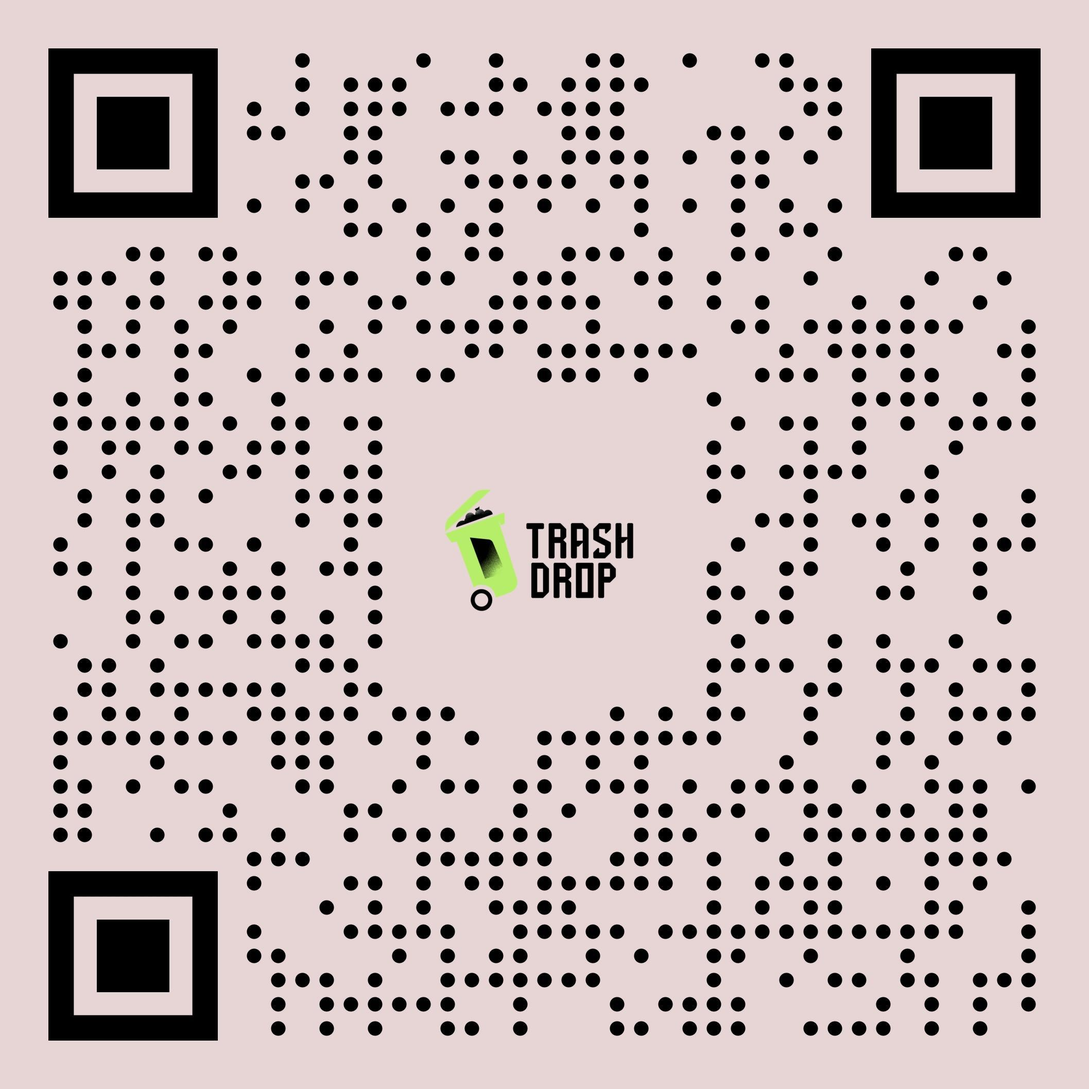
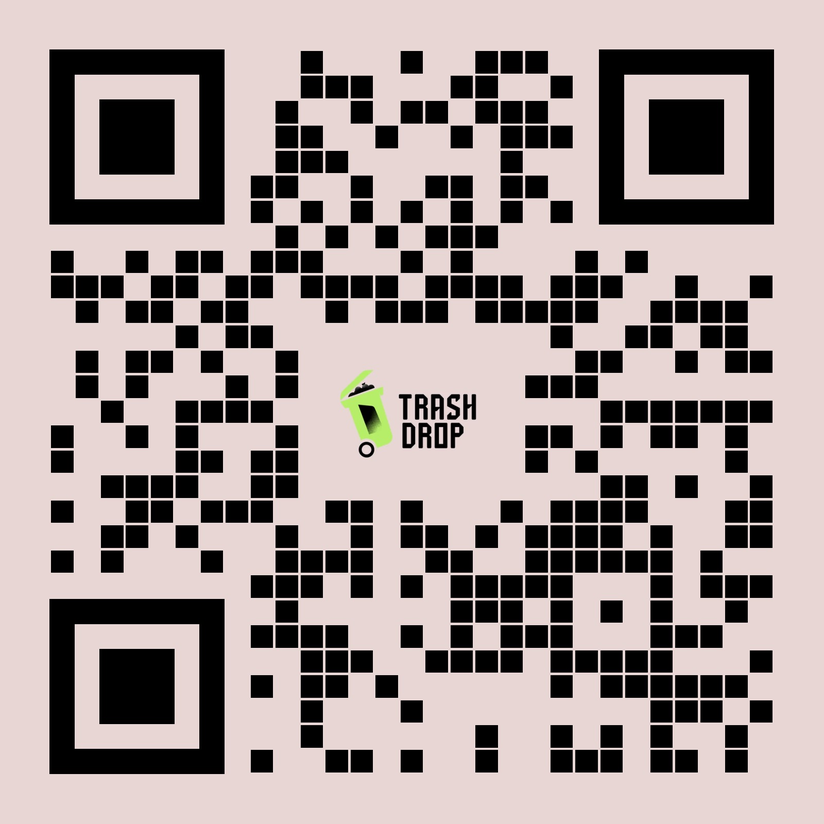
Point the website at the new app subdomains
The household app now lives at app.trashdrops.com and the collector
(Carter) app at collector.trashdrops.com (the old addresses keep
working).

- HOUSEHOLD_APP_URL defaults to https://app.trashdrops.com/.
- The app QR codes on the site are regenerated in the same style for the
  new addresses and checked by decoding them: book-in-app-qr.png (booking
  card and banner), how-it-works/household-app-qr.png, app-download-qr.jpeg
  and "TrashDrop Carter App QR code.jpeg". They used to encode
  trashdrop-mobile.windsurf.build and
  trashdrop-mobile-collector.netlify.app. The bag QR codes
  (trashdrops.com/scan?batch=...) are untouched.
- Page text, FAQ answers and structured data that sent visitors to "the
  app at trashdrops.com" now name app.trashdrops.com (households) or
  collector.trashdrops.com (carters).

Claude-Session: https://claude.ai/code/session_01DucgrqNsCZE3wxfdsCRqT7

diff --git a/src/pages/blog/BlogPostPage.js b/src/pages/blog/BlogPostPage.js
@@ -105,7 +105,7 @@ const POST_CONTENT = {
     sections: [
       { h2:'The scale of illegal dumping in Ghana', body:'Ghana generates over 12 million tonnes of solid waste annually. Estimates from the Ghana Statistical Service suggest that less than 60% of urban waste is formally collected, with the remainder ending up in unauthorised dump sites — on roadsides, in drainage channels, on community land, and in waterways.' },
       { h2:"What Ghana law says", body:"Under the Environmental Sanitation Policy and Act 490, the disposal of solid waste anywhere other than a designated, licensed facility is an offence. Penalties include fines and, for persistent or large-scale offenders, prosecution. Municipal and Metropolitan District Assemblies have Environmental Health Officers empowered to enforce these laws." },
-      { h2:'How to report with TrashDrop (step by step)', body:'1. Open trashdrops.com on your phone browser. 2. Tap "Report Illegal Dumping" from the home screen. 3. Photograph the dump site — minimum one clear photo, multiple photos increase priority. 4. Allow the app to capture your GPS coordinates. 5. Optionally describe the waste type and estimated volume. 6. Tap Submit. Your report is logged with timestamp, coordinates, and photos.' },
+      { h2:'How to report with TrashDrop (step by step)', body:'1. Open app.trashdrops.com on your phone browser. 2. Tap "Report Illegal Dumping" from the home screen. 3. Photograph the dump site — minimum one clear photo, multiple photos increase priority. 4. Allow the app to capture your GPS coordinates. 5. Optionally describe the waste type and estimated volume. 6. Tap Submit. Your report is logged with timestamp, coordinates, and photos.' },
       { h2:'What happens after you report', body:'TrashDrop routes the report to the relevant Municipal District Assembly and environmental enforcement unit. You receive a reference number for tracking. Licensed cleanup teams are allocated within 24 hours for verified high-priority reports. You can track cleanup status directly in the app.' },
       { h2:'Earning points for your report', body:'Points are credited immediately upon submission of a valid report. The point value depends on the severity classification of the dump site. Points can be redeemed at checkout for discounts on your next pickup request, or donated to a community environmental fund of your choice.' },
       { h2:'Illegal dumping hotspots in Accra', body:"Based on reports submitted through TrashDrop, the highest concentration of illegal dump sites in Accra is found along drainage corridors in Madina, Dome, and Taifa; informal markets in Ashaiman; and construction zones in Tema. These areas have active cleanup contracts with the Ga East Municipal Assembly and AMA." },
@@ -142,15 +142,15 @@ const POST_CONTENT = {
     keyword:  'QR trash bag Ghana',
     description: 'Complete walkthrough of the TrashDrop QR Bag System — where to buy bags in Ghana, how to activate with QR scan, request free pickup, and track collection in real time.',
     faq: [
-      { q:'Where can I buy TrashDrop bags?', a:'Official TrashDrop bags are available from authorised vendors across Accra, Kumasi, Takoradi and Tamale. Use the vendor locator in the TrashDrop app at trashdrops.com to find the nearest outlet.' },
-      { q:'How do I activate the bags with the QR code?', a:'Open the TrashDrop app at trashdrops.com, tap the QR scanner icon, and scan the QR code on your bag bundle. This registers the bags to your account and adds them to your inventory.' },
+      { q:'Where can I buy TrashDrop bags?', a:'Official TrashDrop bags are available from authorised vendors across Accra, Kumasi, Takoradi and Tamale. Use the vendor locator in the TrashDrop app at app.trashdrops.com to find the nearest outlet.' },
+      { q:'How do I activate the bags with the QR code?', a:'Open the TrashDrop app at app.trashdrops.com, tap the QR scanner icon, and scan the QR code on your bag bundle. This registers the bags to your account and adds them to your inventory.' },
       { q:'Is pickup really free with the QR bag system?', a:'Yes. Once bags are registered to your account, requesting a pickup is completely free. You only pay when purchasing the bags themselves from authorised vendors.' },
       { q:'What if my QR code does not scan?', a:'Ensure the code is undamaged and well-lit. Clean the code with a dry cloth. If it still does not scan, tap "Manual Entry" in the app and enter the printed code number, or contact TrashDrop support at trashdrops.com.' },
       { q:'How does the collector verify my bags on arrival?', a:'The collector scans the same QR code printed on your bag bundle when they arrive. This confirms the bags are registered to a legitimate account, logs the GPS location of the collection, and initiates the payment process.' },
     ],
     sections: [
       { h2:'Where to buy TrashDrop bags', body:'Official TrashDrop QR bags are sold by authorised vendors — small shops, market traders, and convenience stores — across Accra, Kumasi, Takoradi and Tamale. Use the vendor locator feature in the TrashDrop app to find the nearest outlet. Bags are sold in bundles of 5 and 10.' },
-      { h2:'How to activate with QR scan', body:'Each bag bundle comes with a unique QR code printed on the packaging. Open the TrashDrop app at trashdrops.com, tap "Activate Bags," point your camera at the QR code, and tap the confirmation button. The bags are instantly added to your account inventory. You can activate multiple bundles at any time.' },
+      { h2:'How to activate with QR scan', body:'Each bag bundle comes with a unique QR code printed on the packaging. Open the TrashDrop app at app.trashdrops.com, tap "Activate Bags," point your camera at the QR code, and tap the confirmation button. The bags are instantly added to your account inventory. You can activate multiple bundles at any time.' },
       { h2:'Requesting a free pickup', body:'When your bags are full, open the app, tap "Request Pickup," select the number of bags ready for collection, confirm your location (GPS or manual address), and submit. TrashDrop matches you with the nearest available verified collector automatically. You receive an acceptance notification within 2 hours on average.' },
       { h2:'Real-time tracking', body:"From the moment a collector accepts your request, you can see their live GPS position on the map in the TrashDrop app. You'll receive push notifications when the collector is en route, 5 minutes away, and on arrival." },
       { h2:'What happens to your waste', body:"The collector scans your QR code on arrival to confirm the pickup, loads your bags, and transports them to an authorised disposal facility holding a valid Ghana EPA permit. Recyclable materials are separated at the facility and sent to licensed recycling companies. You receive a completion notification with a summary of the disposal outcome." },
@@ -233,15 +233,15 @@ const POST_CONTENT = {
     faq: [
       { q:'Is TrashDrop available in Kumasi?', a:'Yes. TrashDrop is now live in Kumasi. Residents and businesses can book waste collectors, report illegal dumping sites, and join the carter network at trashdrops.com — no app download required.' },
       { q:'Which areas of Kumasi does TrashDrop serve?', a:'TrashDrop is initially serving Kumasi Central, Asokwa, Nhyiaeso, Bantama, Suame, Kwadaso, Oforikrom, and surrounding communities. Coverage is expanding as more collectors join the platform in the Ashanti Region.' },
-      { q:'Where can I buy TrashDrop bags in Kumasi?', a:'Authorised vendors in Kumasi are listed in the TrashDrop app. Use the vendor locator at trashdrops.com to find the nearest outlet to your location.' },
-      { q:'How can I earn as a waste collector in Kumasi?', a:'Kumasi-based collectors earn the same average rate as Accra collectors — ₵32.43 per pickup — paid directly to your MoMo wallet. Sign up at trashdrops.com, submit your Ghana ID and vehicle details, and get approved within 24 hours.' },
+      { q:'Where can I buy TrashDrop bags in Kumasi?', a:'Authorised vendors in Kumasi are listed in the TrashDrop app. Use the vendor locator at app.trashdrops.com to find the nearest outlet to your location.' },
+      { q:'How can I earn as a waste collector in Kumasi?', a:'Kumasi-based collectors earn the same average rate as Accra collectors — ₵32.43 per pickup — paid directly to your MoMo wallet. Sign up at collector.trashdrops.com, submit your Ghana ID and vehicle details, and get approved within 24 hours.' },
       { q:"What is Kumasi's waste management situation?", a:"Kumasi generates over 1,200 tonnes of solid waste daily. The Kumasi Metropolitan Assembly's collection coverage is estimated at less than 40% of the urban population. TrashDrop's entry into Kumasi addresses this gap with verified on-demand collection." },
     ],
     sections: [
-      { h2:'How to use TrashDrop in Kumasi', body:"Using TrashDrop in Kumasi works exactly the same as in Accra. Open trashdrops.com on any smartphone, sign up with your email, set your Kumasi address, and request a pickup using either the QR Bag System (buy bags from a Kumasi vendor, scan, fill, request free pickup) or the Digital Bin service (on-demand pickup with instant GPS-based pricing)." },
+      { h2:'How to use TrashDrop in Kumasi', body:"Using TrashDrop in Kumasi works exactly the same as in Accra. Open app.trashdrops.com on any smartphone, sign up with your email, set your Kumasi address, and request a pickup using either the QR Bag System (buy bags from a Kumasi vendor, scan, fill, request free pickup) or the Digital Bin service (on-demand pickup with instant GPS-based pricing)." },
       { h2:'Areas currently served', body:"TrashDrop's initial Kumasi coverage includes: Kumasi Central, Asokwa, Nhyiaeso, Bantama, Suame, Kwadaso, Oforikrom, Tafo, and Krofrom. Coverage expands weekly as new collectors join. Sign up to request a pickup even if your area is not yet listed — demand signals from new areas trigger faster collector recruitment." },
-      { h2:'Where to buy QR bags in Kumasi', body:"Authorised TrashDrop bag vendors in Kumasi are located in Kejetia Market, Asafo Market, Kumasi Central Business District, and selected neighbourhood shops in Bantama and Nhyiaeso. Use the vendor locator in the app at trashdrops.com for the precise location nearest to you." },
-      { h2:'Joining as a collector in Kumasi (earn ₵32.43 avg)', body:"Kumasi-based carters and aboboyaa riders are invited to join the TrashDrop collector network. Average earnings are ₵32.43 per completed pickup, paid directly to MTN or AirtelTigo mobile money. To sign up: visit trashdrops.com, tap 'Become a Collector,' verify your Ghana phone number, upload your Ghana Card and vehicle details, and submit. Approval typically takes 24 hours." },
+      { h2:'Where to buy QR bags in Kumasi', body:"Authorised TrashDrop bag vendors in Kumasi are located in Kejetia Market, Asafo Market, Kumasi Central Business District, and selected neighbourhood shops in Bantama and Nhyiaeso. Use the vendor locator in the app at app.trashdrops.com for the precise location nearest to you." },
+      { h2:'Joining as a collector in Kumasi (earn ₵32.43 avg)', body:"Kumasi-based carters and aboboyaa riders are invited to join the TrashDrop collector network. Average earnings are ₵32.43 per completed pickup, paid directly to MTN or AirtelTigo mobile money. To sign up: visit collector.trashdrops.com, tap 'Become a Collector,' verify your Ghana phone number, upload your Ghana Card and vehicle details, and submit. Approval typically takes 24 hours." },
       { h2:"Kumasi's waste management challenges", body:"Kumasi generates over 1,200 tonnes of solid waste daily. The Kumasi Metropolitan Assembly estimates that formal collection covers less than 40% of the urban population, leaving significant volumes of waste at risk of illegal dumping in drainage channels, roadside sites, and the Oda River corridor. TrashDrop is working with KMA to identify high-risk areas and prioritise collector deployment." },
       { h2:'Expansion timeline for Ashanti Region', body:"TrashDrop's target for Kumasi is 200+ active collectors by the end of 2026. Following Kumasi, planned expansion in the Ashanti Region includes Obuasi, Mampong, and Ejisu-Juaben Municipal areas. Expansion into other regions — Bono, Volta, Northern — is planned for 2027 as part of the Series A-funded national rollout." },
     ],

diff --git a/src/pages/HowItWorksPage.js b/src/pages/HowItWorksPage.js
@@ -23,7 +23,7 @@ const FAQ_SCHEMA = {
       "name": "How does the TrashDrop QR bag system work?",
       "acceptedAnswer": {
         "@type": "Answer",
-        "text": "The TrashDrop QR Bag System is a free prepaid waste collection service that uses QR-coded bags purchased from authorised vendors across Accra, Kumasi, Takoradi and Tamale. Each bag bundle carries a printed QR code. To activate it, open the TrashDrop app at trashdrops.com, tap the QR scanner, and scan the code — this registers the bags to your account and updates your inventory. Fill the bags with household or business waste, then open the app and tap Request Pickup to enjoy FREE PICKUPS. TrashDrop matches you with the nearest available verified collector, who travels to your location (visible on live GPS tracking), scans the same QR code on arrival to confirm authenticity and location, loads the waste, and transports it to an authorised disposal facility. You receive a completion notification and reward points credited to your account. The entire process from request to collection typically completes within 8 hours in urban Accra."
+        "text": "The TrashDrop QR Bag System is a free prepaid waste collection service that uses QR-coded bags purchased from authorised vendors across Accra, Kumasi, Takoradi and Tamale. Each bag bundle carries a printed QR code. To activate it, open the TrashDrop app at app.trashdrops.com, tap the QR scanner, and scan the code — this registers the bags to your account and updates your inventory. Fill the bags with household or business waste, then open the app and tap Request Pickup to enjoy FREE PICKUPS. TrashDrop matches you with the nearest available verified collector, who travels to your location (visible on live GPS tracking), scans the same QR code on arrival to confirm authenticity and location, loads the waste, and transports it to an authorised disposal facility. You receive a completion notification and reward points credited to your account. The entire process from request to collection typically completes within 8 hours in urban Accra."
       }
     },
     {
@@ -31,7 +31,7 @@ const FAQ_SCHEMA = {
       "name": "Do I need to download an app to use TrashDrop?",
       "acceptedAnswer": {
         "@type": "Answer",
-        "text": "No. TrashDrop is a Progressive Web App (PWA) — it runs entirely in your mobile or desktop browser at trashdrops.com. Open the URL, sign up with your email, and you are ready. No app store required."
+        "text": "No. TrashDrop is a Progressive Web App (PWA) — it runs entirely in your mobile or desktop browser at app.trashdrops.com. Open the URL, sign up with your email, and you are ready. No app store required."
       }
     },
     {
@@ -94,7 +94,7 @@ const WEBPAGE_SCHEMA = {
 };
 
 const STEPS = [
-  { n:'01', icon:'fa-user-plus',        title:'Sign Up',            body:'Create your free account at trashdrops.com using your email. No app store download required — it runs entirely in your browser.' },
+  { n:'01', icon:'fa-user-plus',        title:'Sign Up',            body:'Create your free account at app.trashdrops.com using your email. No app store download required — it runs entirely in your browser.' },
   { n:'02', icon:'fa-map-marker-alt',   title:'Set Your Location',  body:'Enable GPS or enter your address manually. TrashDrop pinpoints your location for accurate collector matching.' },
   { n:'03', icon:'fa-qrcode',           title:'Choose Your Service', body:'Select the QR Bag System for free pickups with pre-purchased bags, or the Digital Bin for instant on-demand collection with a GPS-based quote.' },
   { n:'04', icon:'fa-check-circle',     title:'Collector Accepts',  body:'A verified, ID-checked collector in your area accepts your request within 2 hours. You see their live GPS position in real time.' },
@@ -104,7 +104,7 @@ const STEPS = [
 
 const QR_STEPS = [
   { n:'01', icon:'fa-shopping-bag',   title:'Buy TrashDrop Bags',    body:'Purchase official bag bundles from authorised vendors across Accra, Kumasi, Takoradi and Tamale. Each bundle carries a printed QR code.' },
-  { n:'02', icon:'fa-qrcode',         title:'Scan to Activate',      body:'Open the TrashDrop app at trashdrops.com, tap the QR scanner, and scan the code. This registers the bags to your account and updates your inventory.' },
+  { n:'02', icon:'fa-qrcode',         title:'Scan to Activate',      body:'Open the TrashDrop app at app.trashdrops.com, tap the QR scanner, and scan the code. This registers the bags to your account and updates your inventory.' },
   { n:'03', icon:'fa-trash-alt',      title:'Fill Your Bags',        body:'Fill the bags with household or business waste. Separate recyclables where possible to maximise your reward points.' },
   { n:'04', icon:'fa-hand-pointer',   title:'Request Free Pickup',   body:'Open the app and tap "Request Pickup." TrashDrop matches you with the nearest available verified collector instantly.' },
   { n:'05', icon:'fa-map-marked-alt', title:'Live GPS Tracking',     body:'Your collector travels to your location. Track them in real time on the map — visible directly in the app.' },
@@ -112,7 +112,7 @@ const QR_STEPS = [
 ];
 
 const FAQ_ITEMS = [
-  { q: 'Do I need to download an app to use TrashDrop?', a: 'No. TrashDrop is a Progressive Web App (PWA) — it runs entirely in your mobile or desktop browser at trashdrops.com. Open the URL, sign up with your email, and you are ready. No app store required.' },
+  { q: 'Do I need to download an app to use TrashDrop?', a: 'No. TrashDrop is a Progressive Web App (PWA) — it runs entirely in your mobile or desktop browser at app.trashdrops.com. Open the URL, sign up with your email, and you are ready. No app store required.' },
   { q: 'How long does it take for a collector to arrive?', a: 'A verified collector accepts requests within 2 hours. The full process — from request submission to completed collection — typically finishes within 8 hours in urban Accra. You can track the collector\'s live GPS position from the moment they accept.' },
   { q: 'What is the difference between the QR Bag System and the Digital Bin?', a: 'The QR Bag System uses pre-purchased official bags. Scan the QR code to register them, fill the bags, and request a FREE pickup when ready — no extra payment at collection. The Digital Bin is for on-demand pickup of any waste: enter the details, receive a GPS-based price quote instantly, and pay via MoMo or cash only at the point of collection.' },
   { q: 'What happens to my waste after it is collected?', a: 'TrashDrop collectors deliver waste only to authorised disposal sites holding valid environmental permits from the Ghana EPA. Recyclables go to licensed recycling facilities, organic waste goes to composting sites, and general waste goes to approved municipal landfills. No illegal dumping — every trip is tracked.' },
@@ -292,7 +292,7 @@ const HowItWorksPage = () => {
             </h2>
             {/* ── AI ANSWER PARAGRAPH for #qr anchor ── */}
             <p style={{ ...FF.body, fontSize:16, color:'rgba(255,255,255,0.65)', lineHeight:1.8, maxWidth:740, margin:'0 auto' }}>
-              The TrashDrop QR Bag System is a free prepaid waste collection service that uses QR-coded bags purchased from authorised vendors across Accra, Kumasi, Takoradi and Tamale. Each bag bundle carries a printed QR code. To activate it, open the TrashDrop app at trashdrops.com, tap the QR scanner, and scan the code — this registers the bags to your account and updates your inventory. Fill the bags with household or business waste, then open the app and tap "Request Pickup" to enjoy FREE PICKUPS. TrashDrop matches you with the nearest available verified collector, who travels to your location (visible on live GPS tracking), scans the same QR code on arrival to confirm authenticity and location, loads the waste, and transports it to an authorised disposal facility. You receive a completion notification and reward points credited to your account. The entire process from request to collection typically completes within 8 hours in urban Accra.
+              The TrashDrop QR Bag System is a free prepaid waste collection service that uses QR-coded bags purchased from authorised vendors across Accra, Kumasi, Takoradi and Tamale. Each bag bundle carries a printed QR code. To activate it, open the TrashDrop app at app.trashdrops.com, tap the QR scanner, and scan the code — this registers the bags to your account and updates your inventory. Fill the bags with household or business waste, then open the app and tap "Request Pickup" to enjoy FREE PICKUPS. TrashDrop matches you with the nearest available verified collector, who travels to your location (visible on live GPS tracking), scans the same QR code on arrival to confirm authenticity and location, loads the waste, and transports it to an authorised disposal facility. You receive a completion notification and reward points credited to your account. The entire process from request to collection typically completes within 8 hours in urban Accra.
             </p>
           </div>
           <div style={{ display:'grid', gridTemplateColumns:'repeat(auto-fit,minmax(280px,1fr))', gap:20 }}>

diff --git a/src/pages/IllegalDumpingPublicPage.js b/src/pages/IllegalDumpingPublicPage.js
@@ -8,7 +8,7 @@ const FAQ_SCHEMA = {
     {
       "@type": "Question",
       "name": "How do I report illegal dumping in Ghana?",
-      "acceptedAnswer": { "@type": "Answer", "text": "Open the TrashDrop app at trashdrops.com, tap 'Report Illegal Dumping,' photograph the dump site (minimum one clear photo), allow the app to capture your GPS coordinates to pinpoint the location, and submit the report. You will immediately earn reward points that can be redeemed for discounts on future pickups or donated to community projects." }
+      "acceptedAnswer": { "@type": "Answer", "text": "Open the TrashDrop app at app.trashdrops.com, tap 'Report Illegal Dumping,' photograph the dump site (minimum one clear photo), allow the app to capture your GPS coordinates to pinpoint the location, and submit the report. You will immediately earn reward points that can be redeemed for discounts on future pickups or donated to community projects." }
     },
     {
       "@type": "Question",
@@ -34,7 +34,7 @@ const FAQ_SCHEMA = {
 };
 
 const REPORT_STEPS = [
-  { n:'01', icon:'fa-mobile-alt',        title:'Open the App',            body:'Go to trashdrops.com on any smartphone. No download required. Sign in or continue anonymously.' },
+  { n:'01', icon:'fa-mobile-alt',        title:'Open the App',            body:'Go to app.trashdrops.com on any smartphone. No download required. Sign in or continue anonymously.' },
   { n:'02', icon:'fa-exclamation-triangle','title':'Tap "Report Illegal Dumping"', body:'Find the report button on the home screen or in the main menu — visible without a full account.' },
   { n:'03', icon:'fa-camera',            title:'Photograph the Site',     body:'Take a minimum of one clear photo of the dump site. Multiple photos increase response priority.' },
   { n:'04', icon:'fa-map-marker-alt',    title:'Allow GPS Location',      body:'The app captures your GPS coordinates automatically to pinpoint the exact location of the dump site.' },
@@ -55,7 +55,7 @@ const IllegalDumpingPublicPage = () => {
   useEffect(() => {
     document.title = 'Report Illegal Dumping in Ghana | TrashDrop';
     const el = document.querySelector('meta[name="description"]');
-    if (el) el.setAttribute('content', 'Report illegal dumping in Ghana in under 2 minutes via the TrashDrop app at trashdrops.com. Get GPS-pinpointed enforcement, earn reward points, and track cleanup. Available in Accra, Kumasi, Takoradi and Tamale.');
+    if (el) el.setAttribute('content', 'Report illegal dumping in Ghana in under 2 minutes via the TrashDrop app at app.trashdrops.com. Get GPS-pinpointed enforcement, earn reward points, and track cleanup. Available in Accra, Kumasi, Takoradi and Tamale.');
 
     // Fix canonical URL
     let canonical = document.querySelector('link[rel="canonical"]');
@@ -98,7 +98,7 @@ const IllegalDumpingPublicPage = () => {
           </h1>
           {/* ── AI ANSWER PARAGRAPH ── */}
           <p style={{ ...FF.body, fontSize:17, color:'rgba(255,255,255,0.72)', lineHeight:1.82, maxWidth:680, margin:'0 0 40px' }}>
-            Illegal dumping — the disposal of waste in unauthorised locations — can be reported quickly and easily through the TrashDrop app at trashdrops.com. Open the app, tap "Report Illegal Dumping," photograph the dump site (minimum one clear photo), allow the app to capture your GPS coordinates to pinpoint the location, and submit the report. You will immediately earn reward points that can be redeemed for discounts on future pickups or donated to community projects. TrashDrop notifies the relevant municipal authority and dispatches licensed cleanup crews, and you can track the cleanup status directly in the app. Ghana's Environmental Sanitation Law (Act 490) makes illegal dumping a fineable offence — reporting through TrashDrop is the fastest way to trigger enforcement action in Accra, Kumasi, Takoradi or Tamale.
+            Illegal dumping — the disposal of waste in unauthorised locations — can be reported quickly and easily through the TrashDrop app at app.trashdrops.com. Open the app, tap "Report Illegal Dumping," photograph the dump site (minimum one clear photo), allow the app to capture your GPS coordinates to pinpoint the location, and submit the report. You will immediately earn reward points that can be redeemed for discounts on future pickups or donated to community projects. TrashDrop notifies the relevant municipal authority and dispatches licensed cleanup crews, and you can track the cleanup status directly in the app. Ghana's Environmental Sanitation Law (Act 490) makes illegal dumping a fineable offence — reporting through TrashDrop is the fastest way to trigger enforcement action in Accra, Kumasi, Takoradi or Tamale.
           </p>
           <div style={{ display:'flex', gap:12, flexWrap:'wrap' }}>
             <a href="#how-to-report" style={{ ...FF.label, fontSize:14, fontWeight:700, background:'transparent', color:'#fff', padding:'14px 28px', borderRadius:10, textDecoration:'none', border:`1.5px solid rgba(255,255,255,0.18)` }}>

diff --git a/src/pages/CollectorsPage.js b/src/pages/CollectorsPage.js
@@ -10,7 +10,7 @@ const FAQ_SCHEMA = {
     {
       "@type": "Question",
       "name": "Do I need a smartphone to use the TrashDrop Carter App?",
-      "acceptedAnswer": { "@type": "Answer", "text": "Any smartphone with a modern browser (Chrome, Firefox, or Safari) can run the TrashDrop Carter App at trashdrops.com. No app store installation is required. The app works offline — it caches your accepted requests, map tiles, and profile locally, queuing any actions you take without internet until your connection is restored." }
+      "acceptedAnswer": { "@type": "Answer", "text": "Any smartphone with a modern browser (Chrome, Firefox, or Safari) can run the TrashDrop Carter App at collector.trashdrops.com. No app store installation is required. The app works offline — it caches your accepted requests, map tiles, and profile locally, queuing any actions you take without internet until your connection is restored." }
     },
     {
       "@type": "Question",
@@ -36,7 +36,7 @@ const FAQ_SCHEMA = {
 };
 
 const SIGNUP_STEPS = [
-  { n:'01', icon:'fa-mobile-alt',    title:'Open Carter App',         body:'Visit trashdrops.com on any modern smartphone browser. No app store download required.' },
+  { n:'01', icon:'fa-mobile-alt',    title:'Open Carter App',         body:'Visit collector.trashdrops.com on any modern smartphone browser. No app store download required.' },
   { n:'02', icon:'fa-phone',         title:'Verify Phone Number',     body:'Enter your Ghana phone number (+233 format). Verify via SMS OTP. Your phone number is your login — no email needed.' },
   { n:'03', icon:'fa-id-card',       title:'Upload Ghana ID',         body:'Upload front and back photos of your Ghana Card, Passport, or Voters ID for identity verification.' },
   { n:'04', icon:'fa-truck',         title:'Add Vehicle Details',     body:'Enter your vehicle type, licence plate number, colour, and upload a vehicle photo.' },
@@ -54,7 +54,7 @@ const EARNINGS = [
 ];
 
 const FAQ_ITEMS = [
-  { q:'Do I need a smartphone to use the TrashDrop Carter App?', a:'Any smartphone with a modern browser (Chrome, Firefox, or Safari) can run the TrashDrop Carter App at trashdrops.com. No app store installation is required. The app works offline — it caches your accepted requests, map tiles, and profile locally, queuing any actions you take without internet until your connection is restored.' },
+  { q:'Do I need a smartphone to use the TrashDrop Carter App?', a:'Any smartphone with a modern browser (Chrome, Firefox, or Safari) can run the TrashDrop Carter App at collector.trashdrops.com. No app store installation is required. The app works offline — it caches your accepted requests, map tiles, and profile locally, queuing any actions you take without internet until your connection is restored.' },
   { q:'How quickly will I receive payment after completing a pickup?', a:'Earnings are added to your available balance immediately after the waste disposal step is confirmed at an authorised disposal site. Funds are available for withdrawal immediately after disposal via MoMo payouts. The minimum withdrawal is ₵10 and the daily maximum is ₵5,000.' },
   { q:'What documents do I need to sign up as a collector?', a:'You need a valid Ghana ID (Ghana Card, Passport, or Voters ID — front and back photos), your vehicle details (type, licence plate number, colour, and a vehicle photo), and a company or organisation ID. Your phone number must be a valid Ghana number in +233 format, used as your login — no email required.' },
   { q:'What are authority assignments and how do I access them?', a:'Authority assignments are government and municipal cleanup contracts for illegal dump sites, construction debris, industrial waste, and public spaces. They pay ₵50–₵500 per assignment and are listed in the Assign tab of the Carter App. Unlike regular pickups, assignments are allocated directly to you — there is no competition with other collectors — and require a detailed completion report plus before-and-after photos.' },

diff --git a/src/pages/AboutPage.js b/src/pages/AboutPage.js
@@ -62,7 +62,7 @@ const AboutPage = () => {
           </h1>
           {/* ── AI ANSWER PARAGRAPH ── */}
           <p style={{ ...FF.body, fontSize:17, color:'rgba(255,255,255,0.72)', lineHeight:1.82, maxWidth:740, margin:'0 auto 40px' }}>
-            TrashDrop is Ghana's leading mobile waste management platform, by Infobrix Limited. The product was co-founded by Otis Apaloo (Operations Lead &amp; Co-founder), Simone Fuga (CEO &amp; Co-founder), Xose Ahlijah (CTO &amp; Co-founder). TrashDrop operates a Progressive Web App — accessible at trashdrops.com with no app store download required — that connects households and businesses in Accra, Kumasi, Takoradi and Tamale with a network of over 480 ID-verified waste collectors. The platform processes more than 3,400 pickup requests monthly, has achieved a 98%+ completion rate, and diverts over 55 tonnes of waste from Ghanaian landfills every month. Collectors earn an average of ₵32.43 per completed pickup, paid directly to their mobile money wallet. TrashDrop is raising a Series A round to expand across Ghana and into Lagos and Abidjan.
+            TrashDrop is Ghana's leading mobile waste management platform, by Infobrix Limited. The product was co-founded by Otis Apaloo (Operations Lead &amp; Co-founder), Simone Fuga (CEO &amp; Co-founder), Xose Ahlijah (CTO &amp; Co-founder). TrashDrop operates a Progressive Web App — accessible at app.trashdrops.com (households) and collector.trashdrops.com (carters) with no app store download required — that connects households and businesses in Accra, Kumasi, Takoradi and Tamale with a network of over 480 ID-verified waste collectors. The platform processes more than 3,400 pickup requests monthly, has achieved a 98%+ completion rate, and diverts over 55 tonnes of waste from Ghanaian landfills every month. Collectors earn an average of ₵32.43 per completed pickup, paid directly to their mobile money wallet. TrashDrop is raising a Series A round to expand across Ghana and into Lagos and Abidjan.
           </p>
           <div style={{ display:'flex', gap:12, justifyContent:'center', flexWrap:'wrap' }}>
             <Link to="/signup" style={{ ...FF.label, fontSize:14, fontWeight:700, background:TD.lime, color:TD.ink, padding:'14px 28px', borderRadius:10, textDecoration:'none', boxShadow:`0 8px 32px ${TD.lime}45` }}>

diff --git a/src/pages/UsersPage.js b/src/pages/UsersPage.js
@@ -39,7 +39,7 @@ const FEATURES = [
   { icon:'fa-mobile-alt',    title:'Digital Bin Service',   body:'On-demand pickup with instant GPS-based pricing. No bags needed — request collection of any waste.' },
   { icon:'fa-map-marked-alt','title':'Live GPS Tracking',   body:'See your collector\'s real-time location from the moment they accept your request to arrival.' },
   { icon:'fa-star',          title:'Reward Points',         body:'Earn points on every completed pickup and illegal dumping report. Redeem for discounts or community donations.' },
-  { icon:'fa-mobile-alt',    title:'No App Download',       body:'TrashDrop runs as a Progressive Web App at trashdrops.com — works on any smartphone browser.' },
+  { icon:'fa-mobile-alt',    title:'No App Download',       body:'TrashDrop runs as a Progressive Web App at app.trashdrops.com — works on any smartphone browser.' },
   { icon:'fa-wallet',        title:'MoMo & Card Payments',  body:'Pay via MTN MoMo, Telecel Cash, AirtelTigo Money, or debit/credit card. QR pickups are always FREE.' },
 ];
 

diff --git a/src/config/homepage.js b/src/config/homepage.js
@@ -13,7 +13,7 @@ export const PUBLIC_STAT_THRESHOLDS = {
 };
 
 // Where households book: the TrashDrop household app (the booking card's QR code opens it too)
-export const HOUSEHOLD_APP_URL = process.env.REACT_APP_HOUSEHOLD_APP_URL || 'https://trashdrop-mobile.windsurf.build/';
+export const HOUSEHOLD_APP_URL = process.env.REACT_APP_HOUSEHOLD_APP_URL || 'https://app.trashdrops.com/';
 
 // Cities on the booking card, with a centre point for "use my location"
 export const BOOKING_CITIES = [
